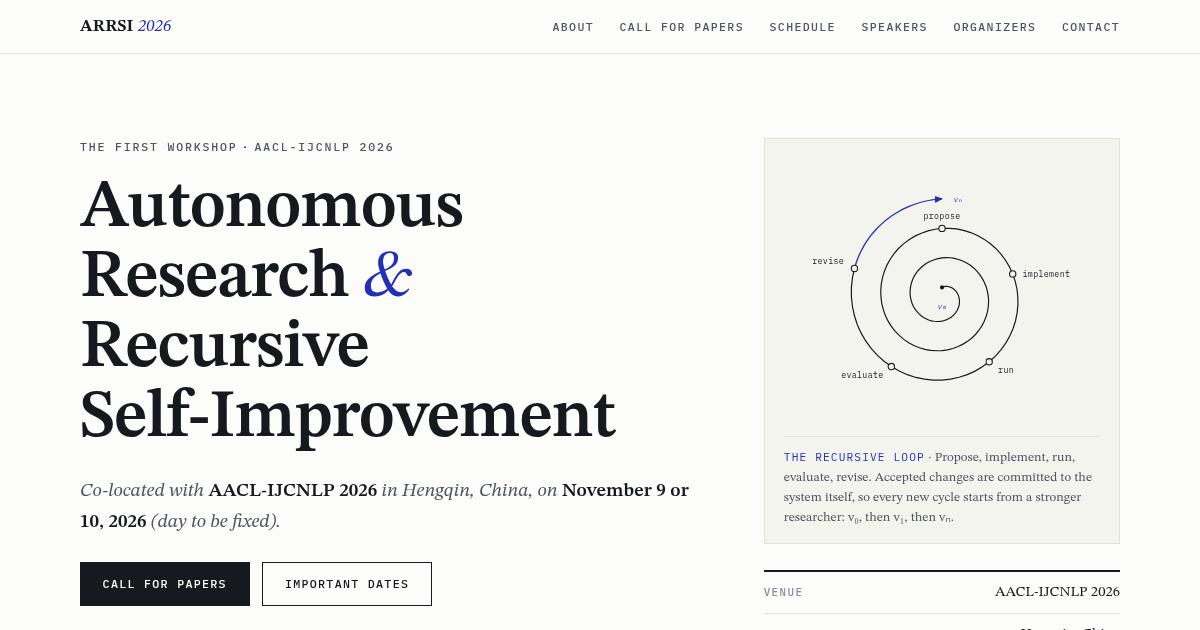
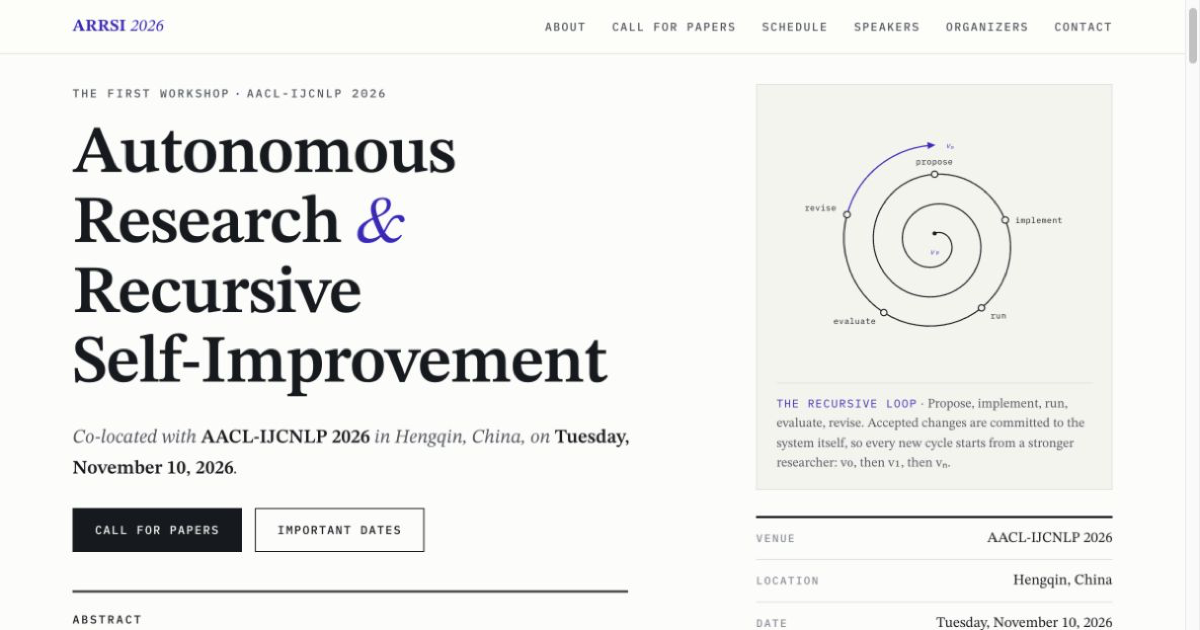
Set ARRSI workshop date to November 10

diff --git a/index.html b/index.html
@@ -9,7 +9,7 @@
 <link rel="canonical" href="https://ar-rsi.github.io/">
 <meta property="og:type" content="website">
 <meta property="og:title" content="ARRSI 2026 · Workshop on Autonomous Research and Recursive Self-Improvement">
-<meta property="og:description" content="What can actually be measured when an agent does research? First ARRSI workshop at AACL-IJCNLP 2026, Hengqin, China, November 9 or 10, 2026.">
+<meta property="og:description" content="What can actually be measured when an agent does research? First ARRSI workshop at AACL-IJCNLP 2026, Hengqin, China, Tuesday, November 10, 2026.">
 <meta property="og:url" content="https://ar-rsi.github.io/">
 <meta property="og:image" content="https://ar-rsi.github.io/assets/img/og.png">
 <meta name="twitter:card" content="summary_large_image">
@@ -40,7 +40,7 @@
     <div>
       <p class="kicker">The First Workshop<span class="sep">·</span>AACL-IJCNLP 2026</p>
       <h1>Autonomous Research <span class="amp">&amp;</span> Recursive Self&#8209;Improvement</h1>
-      <p class="hero-venue">Co-located with <strong>AACL-IJCNLP 2026</strong> in Hengqin, China, on <strong>November 9 or 10, 2026</strong> <em>(day to be fixed)</em>.</p>
+      <p class="hero-venue">Co-located with <strong>AACL-IJCNLP 2026</strong> in Hengqin, China, on <strong>Tuesday, November 10, 2026</strong>.</p>
       <div class="cta-row">
         <a class="btn btn-solid" href="#cfp">Call for Papers</a>
         <a class="btn btn-line" href="#dates">Important dates</a>
@@ -96,7 +96,7 @@
       <dl class="factlist">
         <div><dt>Venue</dt><dd>AACL-IJCNLP 2026</dd></div>
         <div><dt>Location</dt><dd>Hengqin, China</dd></div>
-        <div><dt>Date</dt><dd>Nov 9 or 10, 2026</dd></div>
+        <div><dt>Date</dt><dd>Tuesday, November 10, 2026</dd></div>
         <div><dt>Format</dt><dd>One day, in person</dd></div>
         <div><dt>Submissions</dt><dd>OpenReview · double-blind</dd></div>
       </dl>
@@ -158,7 +158,7 @@
             <tr><td>Submission deadline</td><td class="mono tba" style="text-align:right">TBA</td></tr>
             <tr><td>Notification of acceptance</td><td class="mono tba" style="text-align:right">TBA</td></tr>
             <tr><td>Camera-ready papers due</td><td class="mono tba" style="text-align:right">TBA</td></tr>
-            <tr class="hl"><td>Workshop day</td><td class="mono" style="text-align:right">Nov 9 or 10, 2026</td></tr>
+            <tr class="hl"><td>Workshop day</td><td class="mono" style="text-align:right">Tuesday, November 10, 2026</td></tr>
           </tbody>
         </table>
       </div>
@@ -309,7 +309,7 @@
         <ul>
           <li><a href="https://github.com/ar-rsi" rel="noopener">github.com/ar-rsi</a></li>
           <li>OpenReview <em>(opens with the CFP)</em></li>
-          <li>AACL-IJCNLP 2026, Hengqin, China</li>
+          <li><a href="https://2026.aaclnet.org/program/workshops/" rel="noopener">AACL-IJCNLP 2026 workshop schedule</a></li>
         </ul>
       </div>
       <div>
